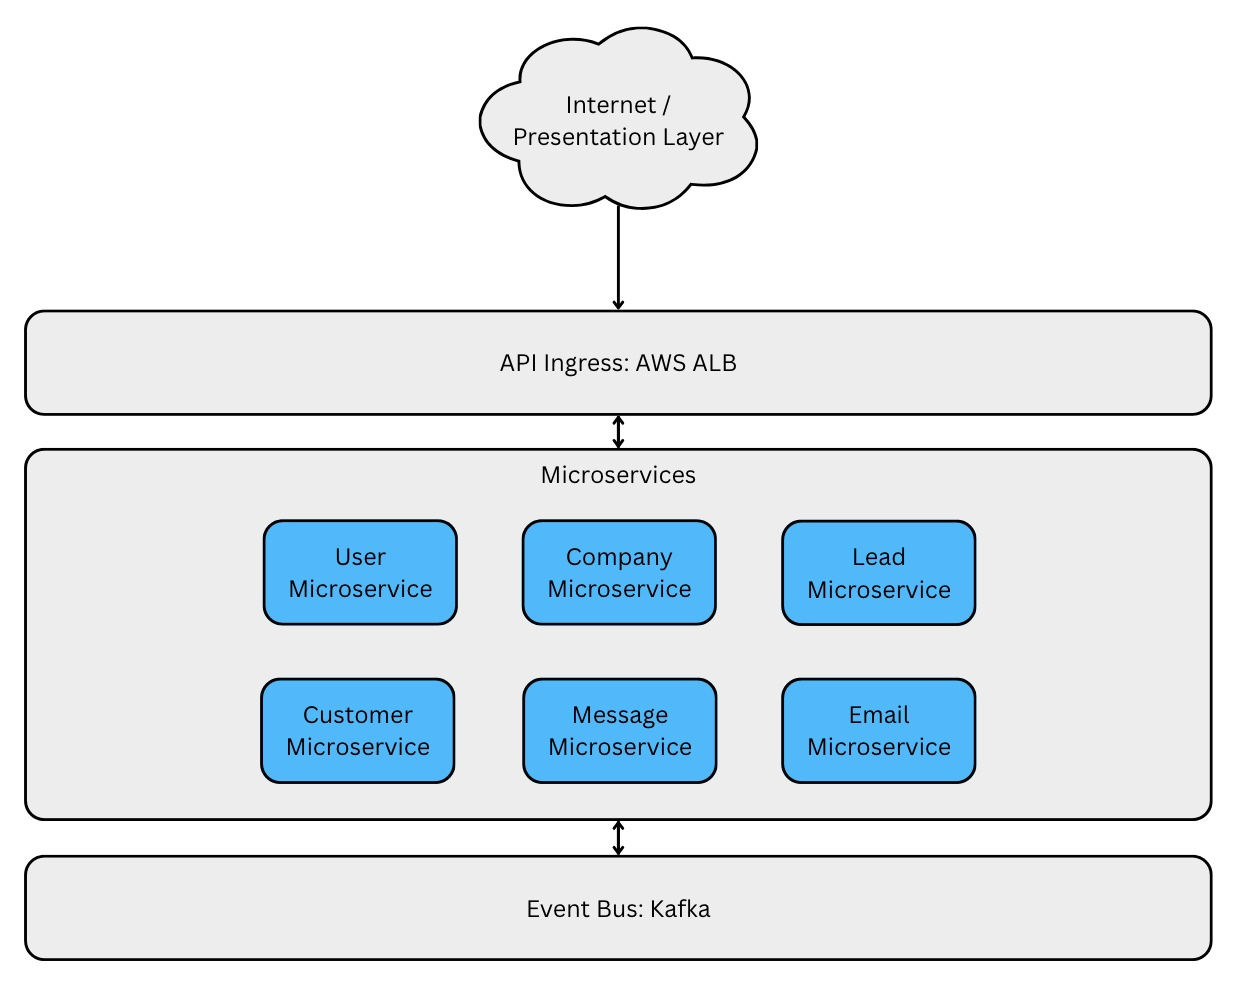
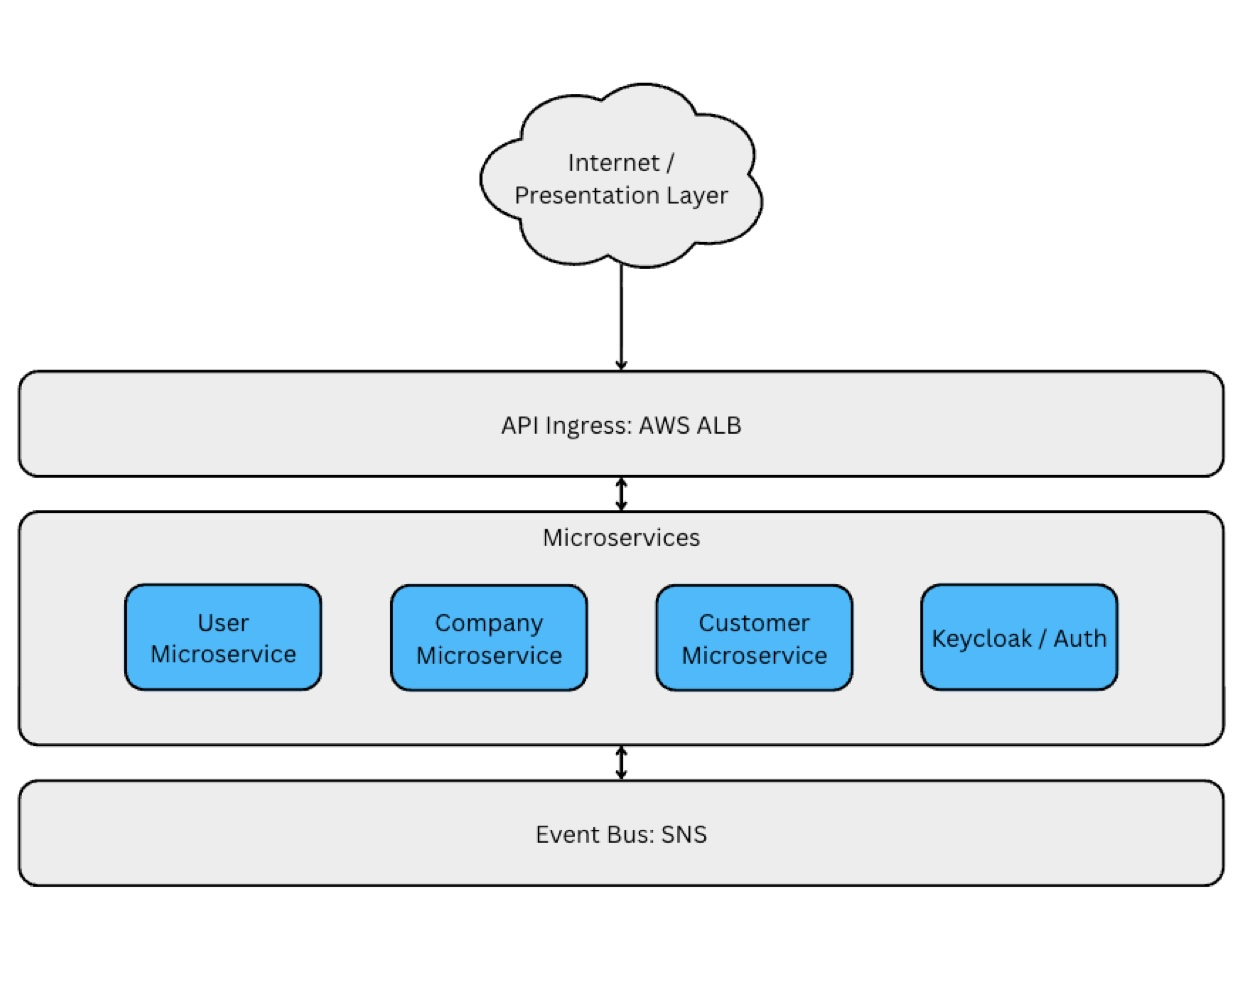
Update readme

diff --git a/README.md b/README.md
@@ -23,10 +23,7 @@ This allows for a streamlined process for the company’s customers scheduling a
   - [Microservices](#microservices)
     - [User Microservice](#user-microservice)
     - [Company Microservice](#company-microservice)
-    - [Lead Microservice](#lead-microservice)
     - [Customer Microservice](#customer-microservice)
-    - [Message Microservice](#message-microservice)
-    - [Email Microservice](#email-microservice)
   - [Lambdas](#lambdas)
   - [Database](#database)
     - [Entity Relationship Diagram](#entity-relationship-diagram-for-all-microservices)
@@ -59,7 +56,7 @@ This allows for a streamlined process for the company’s customers scheduling a
 ## Technical Design
 ### Integrations
 #### Keycloak
-Manages identity and access management for Waitque. Both the Spring Boot app server and serverless infrastructure trust the Keycloak JWT for user authentication. Keycloak is self-hosted by Waitque in a Kubernetes container. 
+Manages identity and access management for Waitque. Both the Spring Boot app server and serverless infrastructure trust the Keycloak JWT for user authentication. Keycloak is self-hosted by Waitque in a Docker container. 
 #### AWS S3 
 Stores images (logos, photos, etc.) uploaded through Waitque via the image upload lambda. 
 #### AWS SES
@@ -67,7 +64,7 @@ Sends email communications from Waitque to company admin users, company field us
 #### CRMs
 Waitque will provide an integration with the native Waitque CRM. In the future Waitque will integrate with 3rd-party CRMs such as ServiceTitan, Salesforce, Hubspot, etc. so that customers can be created/located directly in the integrated 3rd-party CRM via Waitque.
 ### Microservices
-Waitque’s business layer is implemented via domain specific Spring Boot microservices that run in Kubernetes containers and integrate synchronously via REST APIs or asynchronously via a Kafka event bus architecture.
+Waitque’s business layer is implemented via domain specific Spring Boot microservices that run in Docker containers and integrate synchronously via REST APIs or asynchronously via a Kafka event bus architecture.
 ![Microservices](images/readme/WaitqueMicroservices.jpg)
 #### User Microservice
 _Purpose:_ Exposes REST APIs for creating / managing Waitque users. Integrates with Keycloak for user management, but encapsulates and abstracts Keycloak integration details.
@@ -82,7 +79,7 @@ _Event Bus Integrations:_
 - Publishes user deactivated messages
 - Subscribes to company deactivated messages
 #### Company Microservice
-_Purpose:_ Exposes REST APIs for creating / managing / retrieving companies, their configuration and QR codes.
+_Purpose:_ Exposes REST APIs for creating / managing / retrieving companies, their configuration and QR codes. Also, exposes REST APIs for creating / managing / retrieving lead flows.
 
 Requests to create / manage / retrieve companies are routed to this microservice, as are requests to create / manage / retrieve lead flows. New unassigned QR codes are also generated by this service. Super users, company admins, company field users and customers all interact with this service.
 
@@ -92,16 +89,10 @@ _Event Bus Integrations:_
 - Publishes company created messages
 - Publishes company updated messages
 - Publishes company deactivated messages
-#### Lead Microservice
-_Purpose:_ Exposes REST APIs for creating / managing / retrieving leads. Company admins and customers are the primary users to interact with this service.
-
-_Persistence:_ Postgres Database
-
-_Event Bus Integrations:_
 - Publishes lead created messages
 - Publishes lead converted messages
 #### Customer Microservice
-_Purpose:_ Exposes REST APIs for creating customers & searching for customers in the integrated CRM and associating customers from the CRM to a unique QR code.
+_Purpose:_ Exposes REST APIs for creating customers & searching for customers in the integrated CRM and associating customers from the CRM to a unique QR code. Also, exposes REST APIs for creating / managing / retrieving leads. Additionally, exposes REST APIs for creating / managing / retrieving messages.
 
 This service will have the ability to integrate with multiple CRMs in the future (ex. ServiceTitan, Salesforce, Hubspot, etc.), but currently only the native Waitque CRM is supported. This service encapsulates and abstracts the concrete CRM integration of each customer so that the other Waitque microservices are agnostic to the specific CRM implementation.
 
@@ -112,16 +103,11 @@ _Persistence:_ CRM (customers), Postgres Database (customer - QR code associatio
 _Event Bus Integrations:_
 - Publishes customer created messages
 - Publishes customer associated messages
-#### Message Microservice
-_Purpose:_ Exposes REST APIs for creating / managing / retrieving messages. Company admins and customers are the primary users of this service.
+- Publishes message created messages 
+- Publishes message read messages
 
-_Persistence:_ Postgres Database
-
-_Event Bus Integrations:_
-Publishes message created messages
-Publishes message read messages
-#### Email Microservice
-_Purpose:_ Subscribes to Event Bus messages and triggers emails for the following scenarios:
+#### Emails
+_Purpose:_ Emails can be triggered from all microservices via the common module for the following scenarios:
 - User Welcome Email
 - User Updated Email
 - User Deactivated Email
